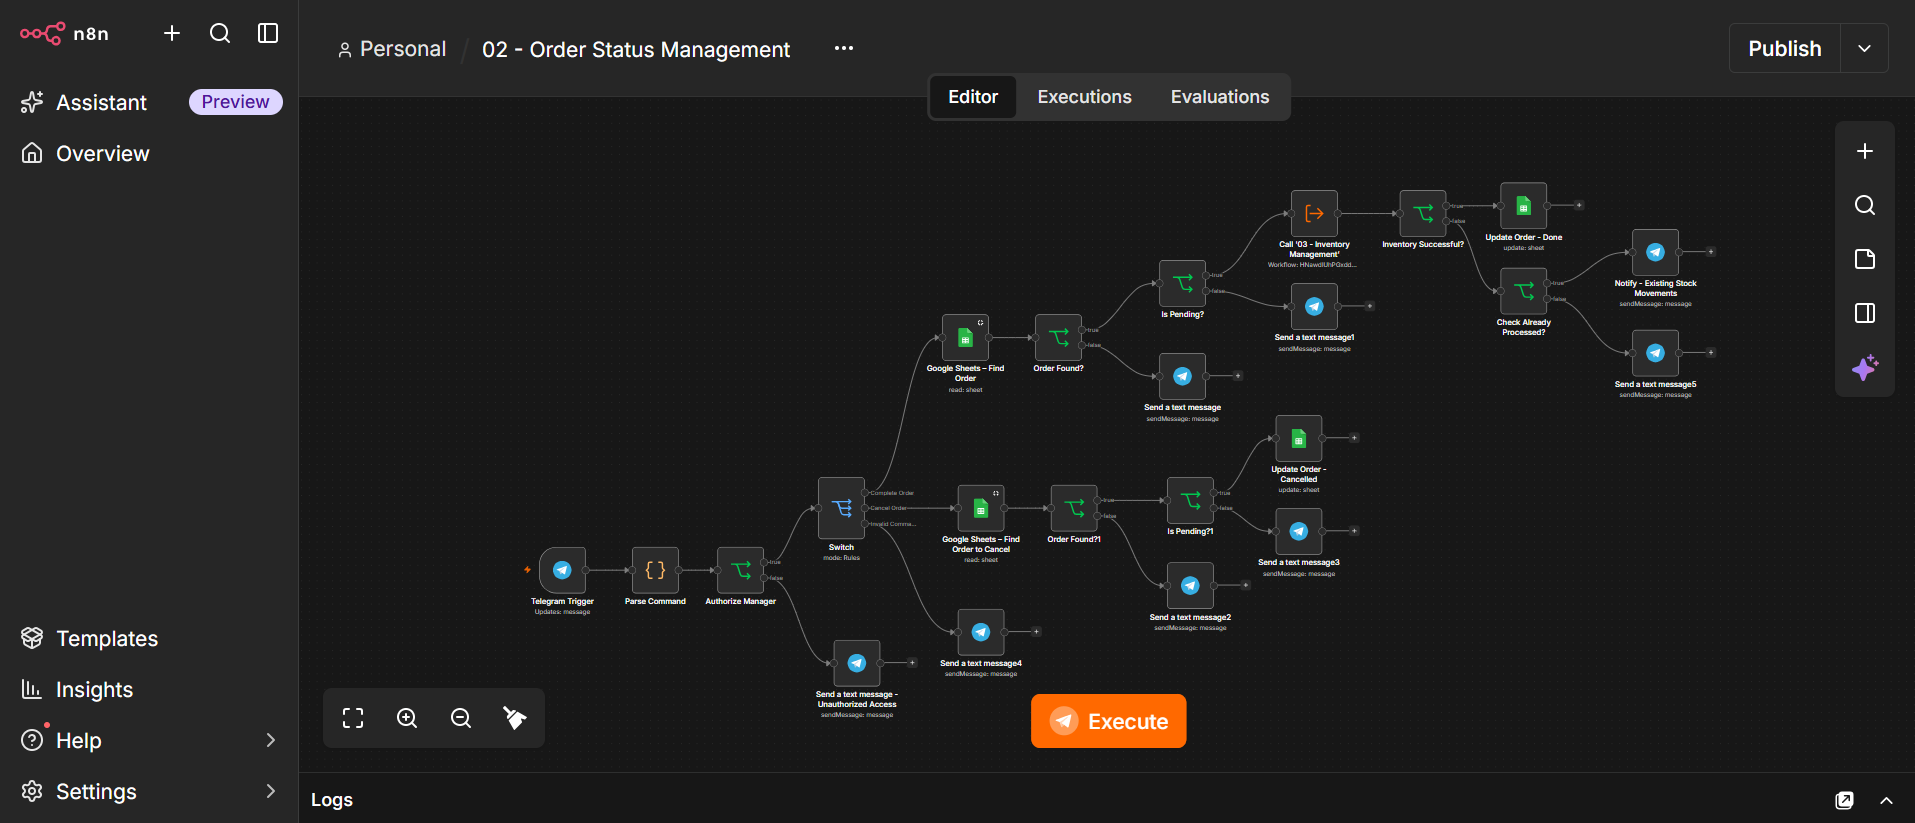
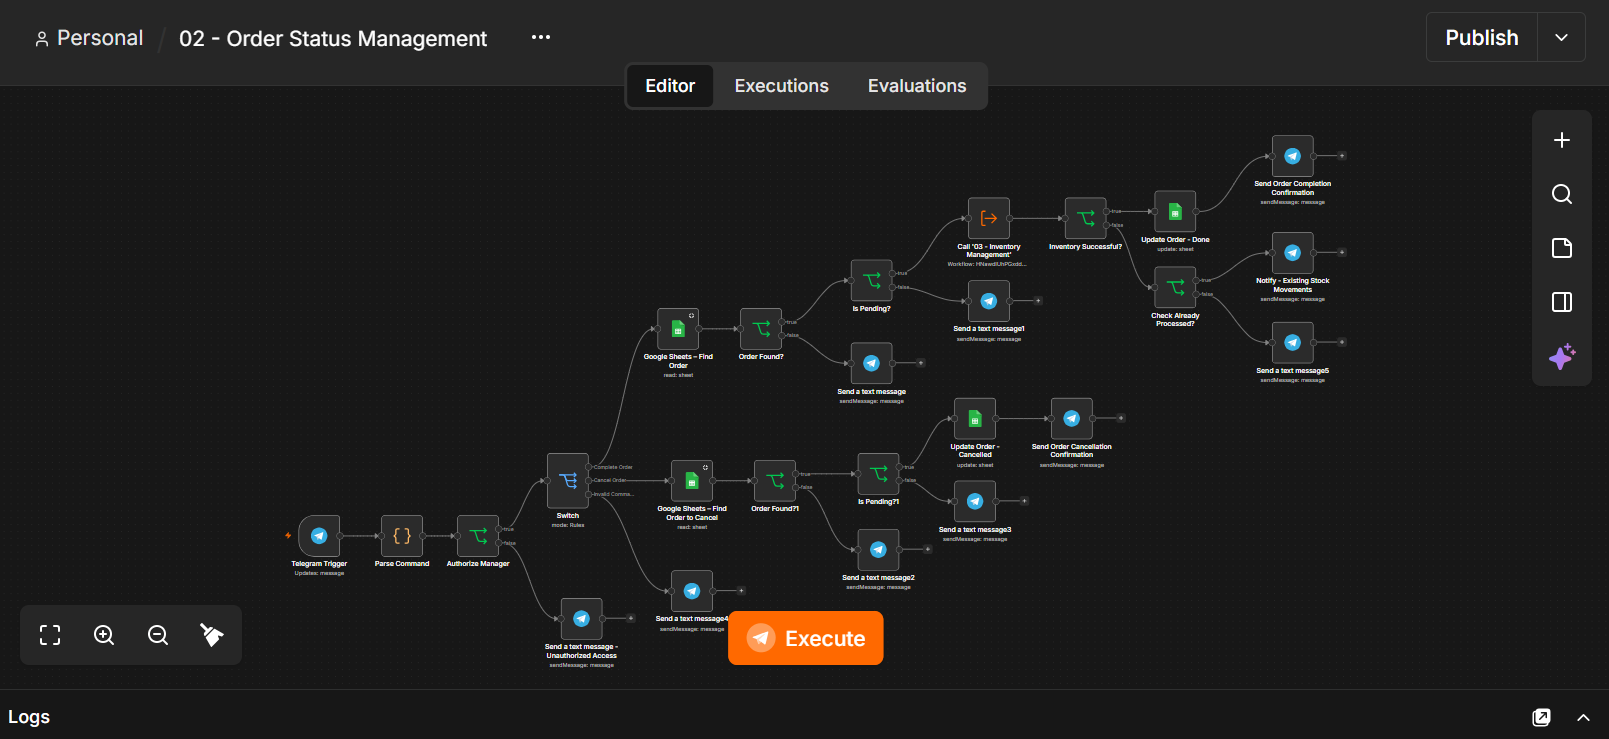
test: complete order management test cases

diff --git a/restaurant-order-inventory-automation/TEST-PLAN.md b/restaurant-order-inventory-automation/TEST-PLAN.md
@@ -82,3 +82,264 @@ All expected results were verified successfully.
 **Evidence:**
 - `screenshots/testing/TC-03-multiple-products-order.png`
 - `screenshots/testing/TC-03-multiple-products-telegram.png`
+
+
+## TC-04 — Successful Order Completion
+
+**Workflows:** 02 - Order Status Management, 03 - Inventory Management  
+**Related Test Case:** TC-03  
+**Status:** Passed (pending verification of stock records)
+
+**Objective:**
+Verify that completing a pending order triggers inventory deduction, records stock movements, and updates the order status.
+
+**Test Data:**
+- Order: The order created in TC-03
+- Burger x 2
+- Burger with cheese x 1
+
+**Test Steps:**
+1. Submit the `done ORDER-ID` command through Telegram.
+2. Verify the order completion response.
+3. Check the order status in Google Sheets.
+4. Verify the inventory quantities after deduction.
+5. Verify the corresponding stock movement records.
+
+**Expected Results:**
+1. The order is completed successfully.
+2. The order status changes from `Pending` to `Done`.
+3. Required ingredient quantities are deducted according to the product recipes.
+4. Stock movements are recorded against the same Order ID.
+5. No duplicate deduction occurs.
+
+**Actual Results:**
+- The completion command was processed successfully.
+- The order completion flow returned a successful result.
+
+**Evidence:**
+- `screenshots/testing/TC-04-telegram-completion.png`
+- `screenshots/testing/TC-04-order-status-done.png`
+- `screenshots/testing/TC-04-inventory-after-deduction.png`
+- `screenshots/testing/TC-04-stock-movements.png`
+
+
+### TC-04 — Successful Order Completion
+
+**Expected Result:**
+- Order status changes from Pending to Done.
+- Required ingredients are deducted from inventory.
+- Stock movements are recorded for the order.
+- A Telegram completion confirmation is sent to the manager.
+
+**Actual Result:**
+- Order status was successfully updated from Pending to Done.
+- Required ingredients were deducted from inventory in the correct quantities.
+- Stock movements were successfully recorded for the order.
+- Telegram completion confirmation was successfully sent to the manager.
+
+**Status:** Passed
+
+**Evidence:**
+- `screenshots/testing/TC-04-order-status-done.png`
+- `screenshots/testing/TC-04-telegram-completion.png`
+- `screenshots/testing/TC-04-inventory-after-deduction.png`
+- `screenshots/testing/TC-04-stock-movements.png`
+
+
+### TC-05 — Insufficient Stock
+
+**Test Data:**
+- Product: Burger
+- Quantity: 200
+
+**Expected Result:**
+- The order remains Pending.
+- The system detects insufficient inventory.
+- No inventory quantities are deducted.
+- No stock movements are recorded for the order.
+
+**Actual Result:**
+- The order remained Pending after the completion attempt.
+- The system correctly detected insufficient inventory.
+- Inventory quantities remained unchanged.
+- No stock movements were recorded for the order.
+
+**Status:** Passed
+
+**Evidence:**
+- `screenshots/testing/TC-05-order-created.png`
+- `screenshots/testing/TC-05-insufficient-stock-response.png`
+- `screenshots/testing/TC-05-inventory-unchanged.png`
+- `screenshots/testing/TC-05-stock-movements-unchanged.png`
+
+
+### TC-06 — Missing Inventory Ingredient
+
+**Test Data:**
+- Product: Burger
+- Quantity: 1
+- Missing Ingredient: Test Ingredient
+- Recipe was temporarily updated to include the missing ingredient.
+
+**Expected Result:**
+- The system detects the missing inventory ingredient.
+- The order remains Pending.
+- No inventory quantities are deducted.
+- No stock movements are recorded for the order.
+
+**Actual Result:**
+- The system correctly detected the missing ingredient.
+- The order remained Pending.
+- Inventory quantities remained unchanged.
+- No stock movements were recorded for the order.
+
+**Status:** Passed
+
+**Evidence:**
+- `screenshots/testing/TC-06-order-created.png`
+- `screenshots/testing/TC-06-missing-ingredient-response.png`
+- `screenshots/testing/TC-06-inventory-unchanged.png`
+
+
+### TC-07 — Cancel Pending Order
+
+**Test Data:**
+- Product: Burger
+- Quantity: 1
+- Initial Order Status: Pending
+
+**Expected Result:**
+- The order status changes from Pending to Cancelled.
+- A Telegram cancellation confirmation is sent to the manager.
+- Inventory quantities remain unchanged.
+- No stock movements are recorded for the cancelled order.
+
+**Actual Result:**
+- The order status was successfully updated from Pending to Cancelled.
+- Telegram cancellation confirmation was successfully sent to the manager.
+- Inventory quantities remained unchanged.
+- No stock movements were recorded for the cancelled order.
+
+**Status:** Passed
+
+**Evidence:**
+- `screenshots/testing/TC-07-order-cancelled.png`
+- `screenshots/testing/TC-07-telegram-cancellation.png`
+- `screenshots/testing/TC-07-inventory-unchanged.png`
+
+
+### TC-08 — Cancel Non-Pending Order
+
+**Test Data:**
+- Order Status: Cancelled
+- Command: cancel
+
+**Expected Result:**
+- The system rejects the cancellation request.
+- The order status remains unchanged.
+- No inventory changes occur.
+- No stock movements are recorded.
+
+**Actual Result:**
+- The system rejected the cancellation request.
+- Telegram returned: "Order Cannot Be Cancelled".
+- The current status was correctly identified as Cancelled.
+- The system confirmed that only Pending orders can be cancelled.
+- No changes were made to the order or inventory.
+
+**Status:** Passed
+
+**Evidence:**
+- `screenshots/testing/TC-08-telegram-cancellation-rejected.png`
+- `screenshots/testing/TC-08-order-status-unchanged.png`
+
+
+
+### TC-09 — Complete Non-Pending Order
+
+**Test Data:**
+- Order ID: Existing TC-07 order
+- Initial Order Status: Cancelled
+- Command: done
+
+**Expected Result:**
+- The system rejects the completion request.
+- The order status remains Cancelled.
+- No inventory deduction is performed.
+- No new stock movements are recorded.
+
+**Actual Result:**
+Pending verification.
+
+**Status:** Not Tested
+
+**Evidence:**
+- `screenshots/testing/TC-09-telegram-completion-rejected.png`
+- `screenshots/testing/TC-09-order-status-unchanged.png`
+
+### TC-10 — Order Not Found
+
+**Test Data:**
+- Order ID: ORD-99999999
+- Command: done
+
+**Expected Result:**
+- The system detects that the order does not exist.
+- A Telegram error message is returned.
+- No order or inventory data is modified.
+
+**Actual Result:**
+- The system correctly identified that the order does not exist.
+- Telegram returned an Order Not Found response.
+- No data was modified.
+
+**Status:** Passed
+
+**Evidence:**
+- `screenshots/testing/TC-10-order-not-found.png`
+
+
+### TC-11 — Invalid Telegram Command
+
+**Test Data:**
+- Command: hello
+
+**Expected Result:**
+- The system rejects the invalid Telegram command.
+- A message explaining the valid command format is returned.
+- No order or inventory data is modified.
+
+**Actual Result:**
+- The system correctly rejected the invalid Telegram command.
+- Telegram returned a response indicating that the command format is invalid.
+- No order or inventory data was modified.
+
+**Status:** Passed
+
+**Evidence:**
+- `screenshots/testing/TC-11-invalid-telegram-command.png`
+
+
+### TC-12 — Unauthorized Manager
+
+**Test Data:**
+- Command: done
+- Order Status: Pending
+- Sender: Unauthorized Telegram User
+
+**Expected Result:**
+- The system rejects commands from unauthorized users.
+- The order status remains Pending.
+- No inventory quantities are deducted.
+- No stock movements are recorded.
+
+**Actual Result:**
+- The system correctly rejected the unauthorized user's command.
+- The order remained Pending.
+- No inventory changes were performed.
+
+**Status:** Passed
+
+**Evidence:**
+- `screenshots/testing/TC-12-unauthorized-manager.jpg`
+
